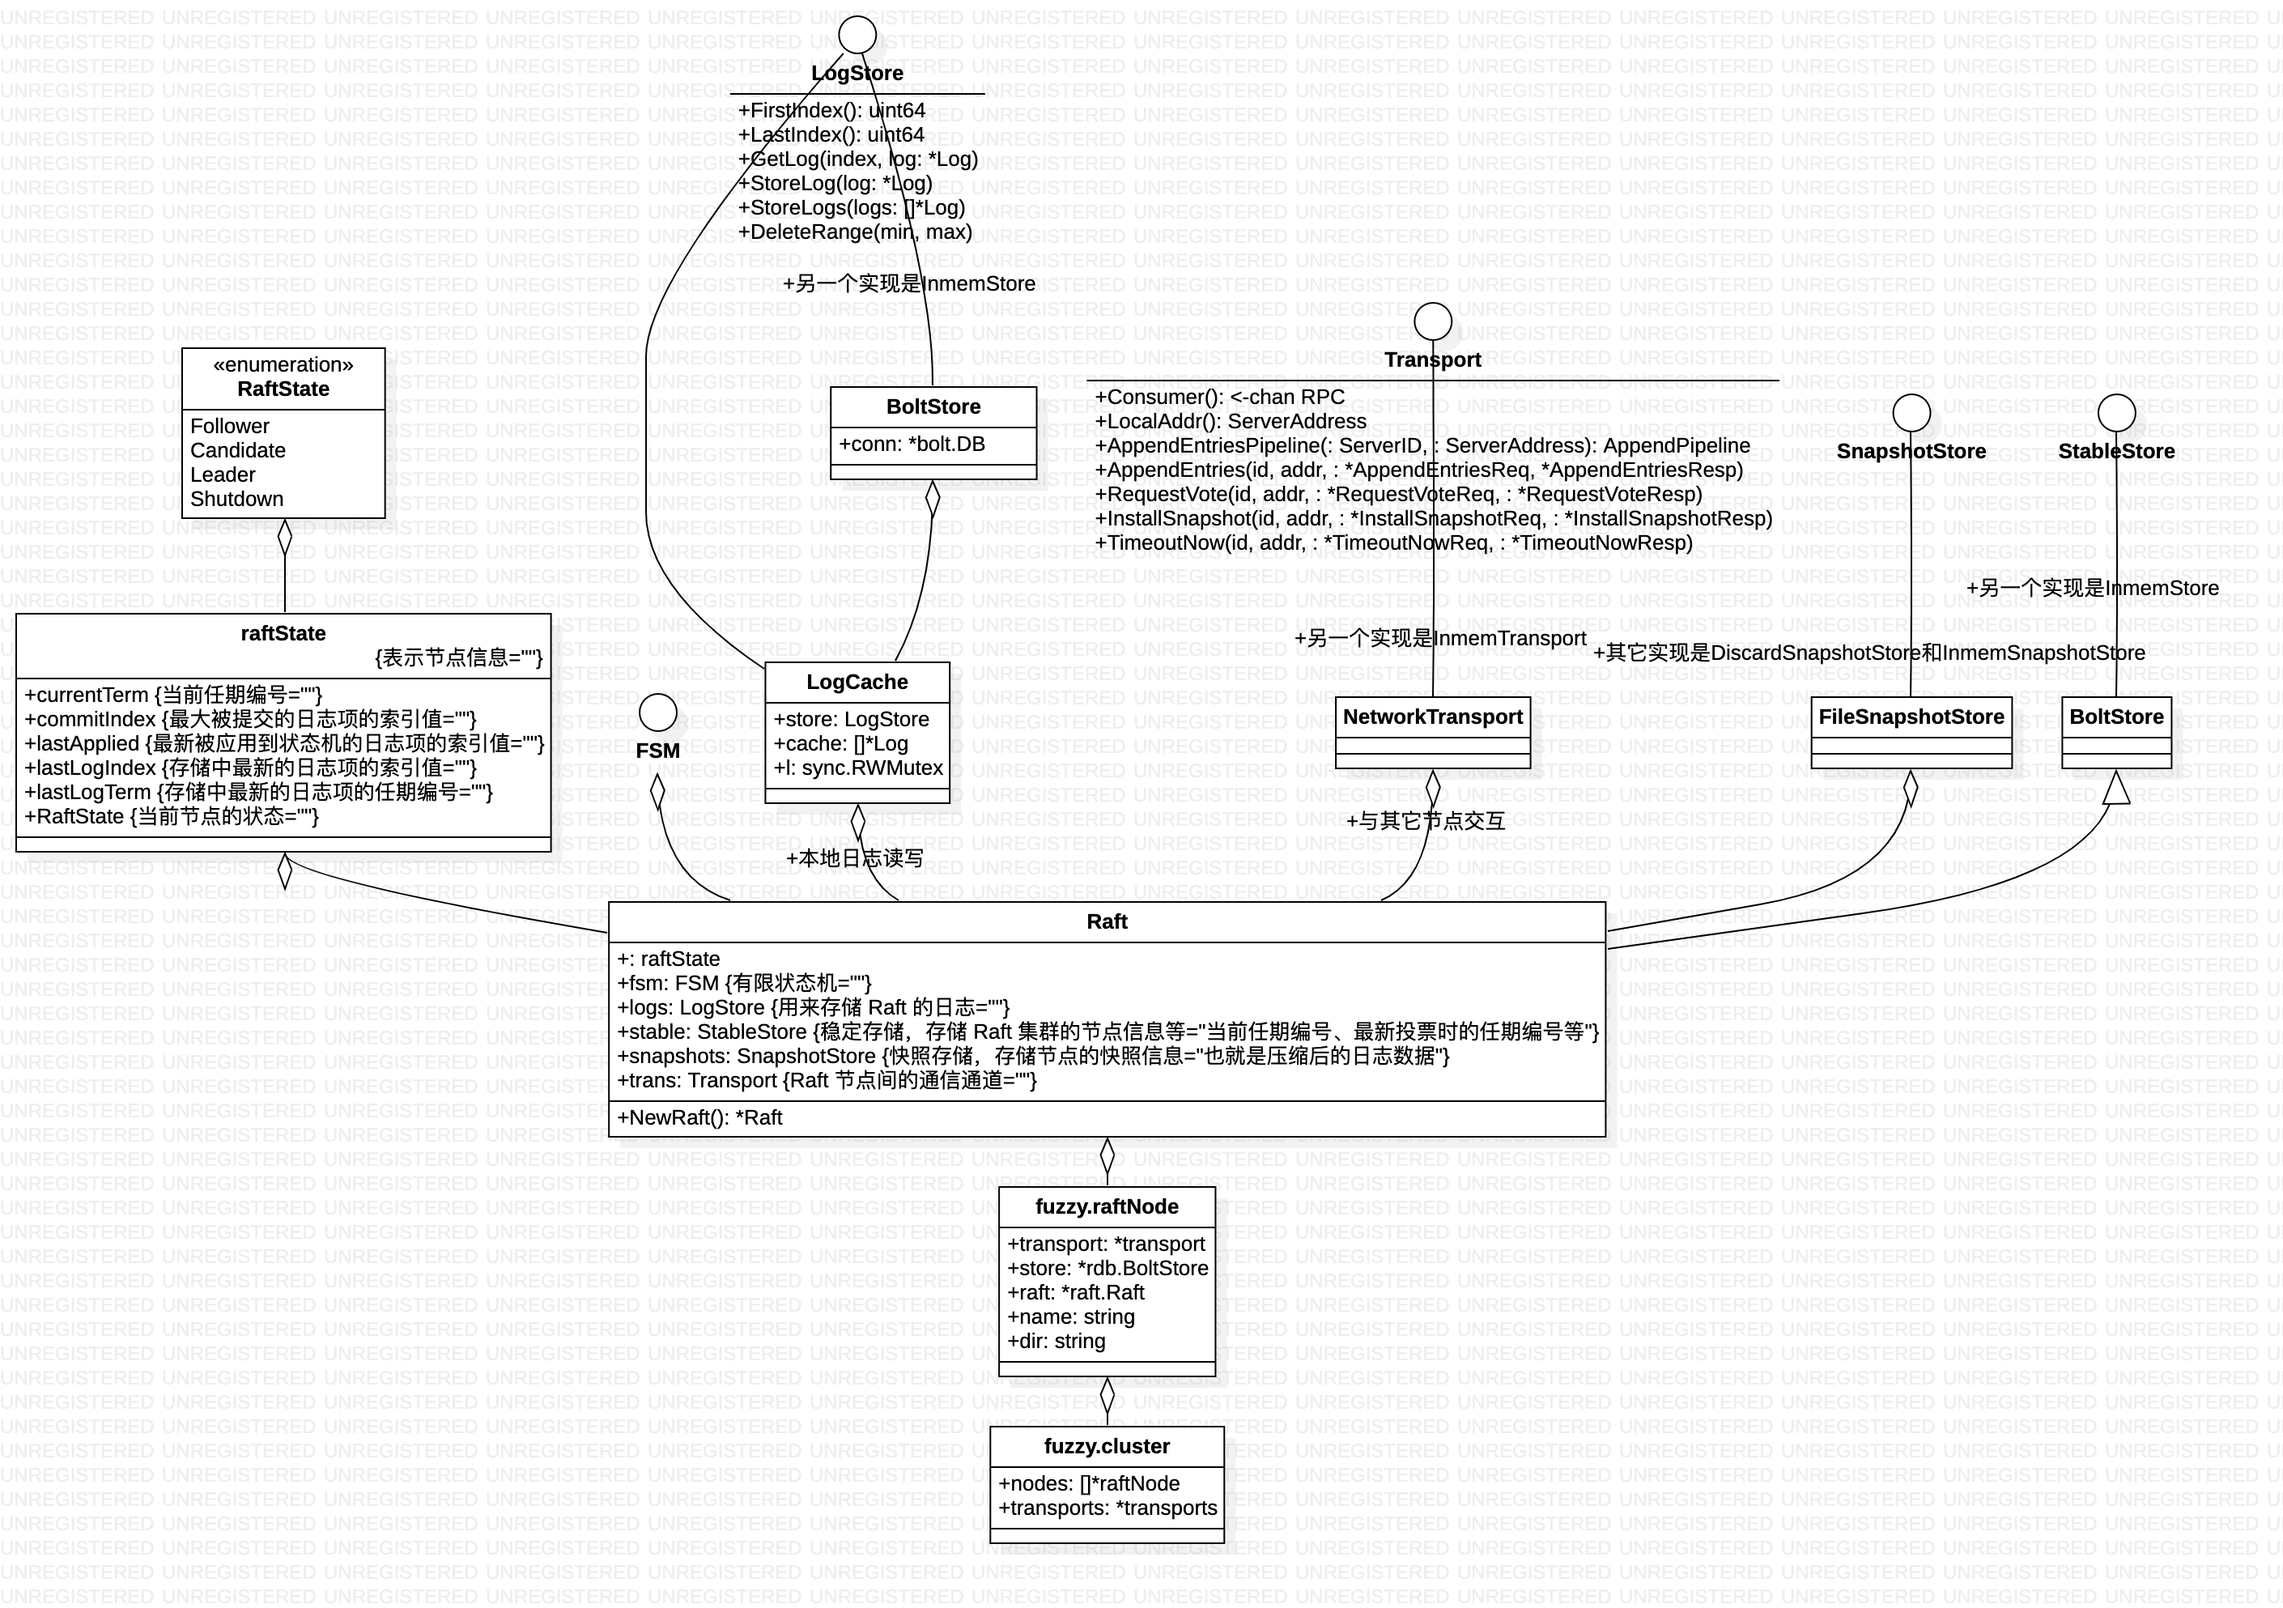
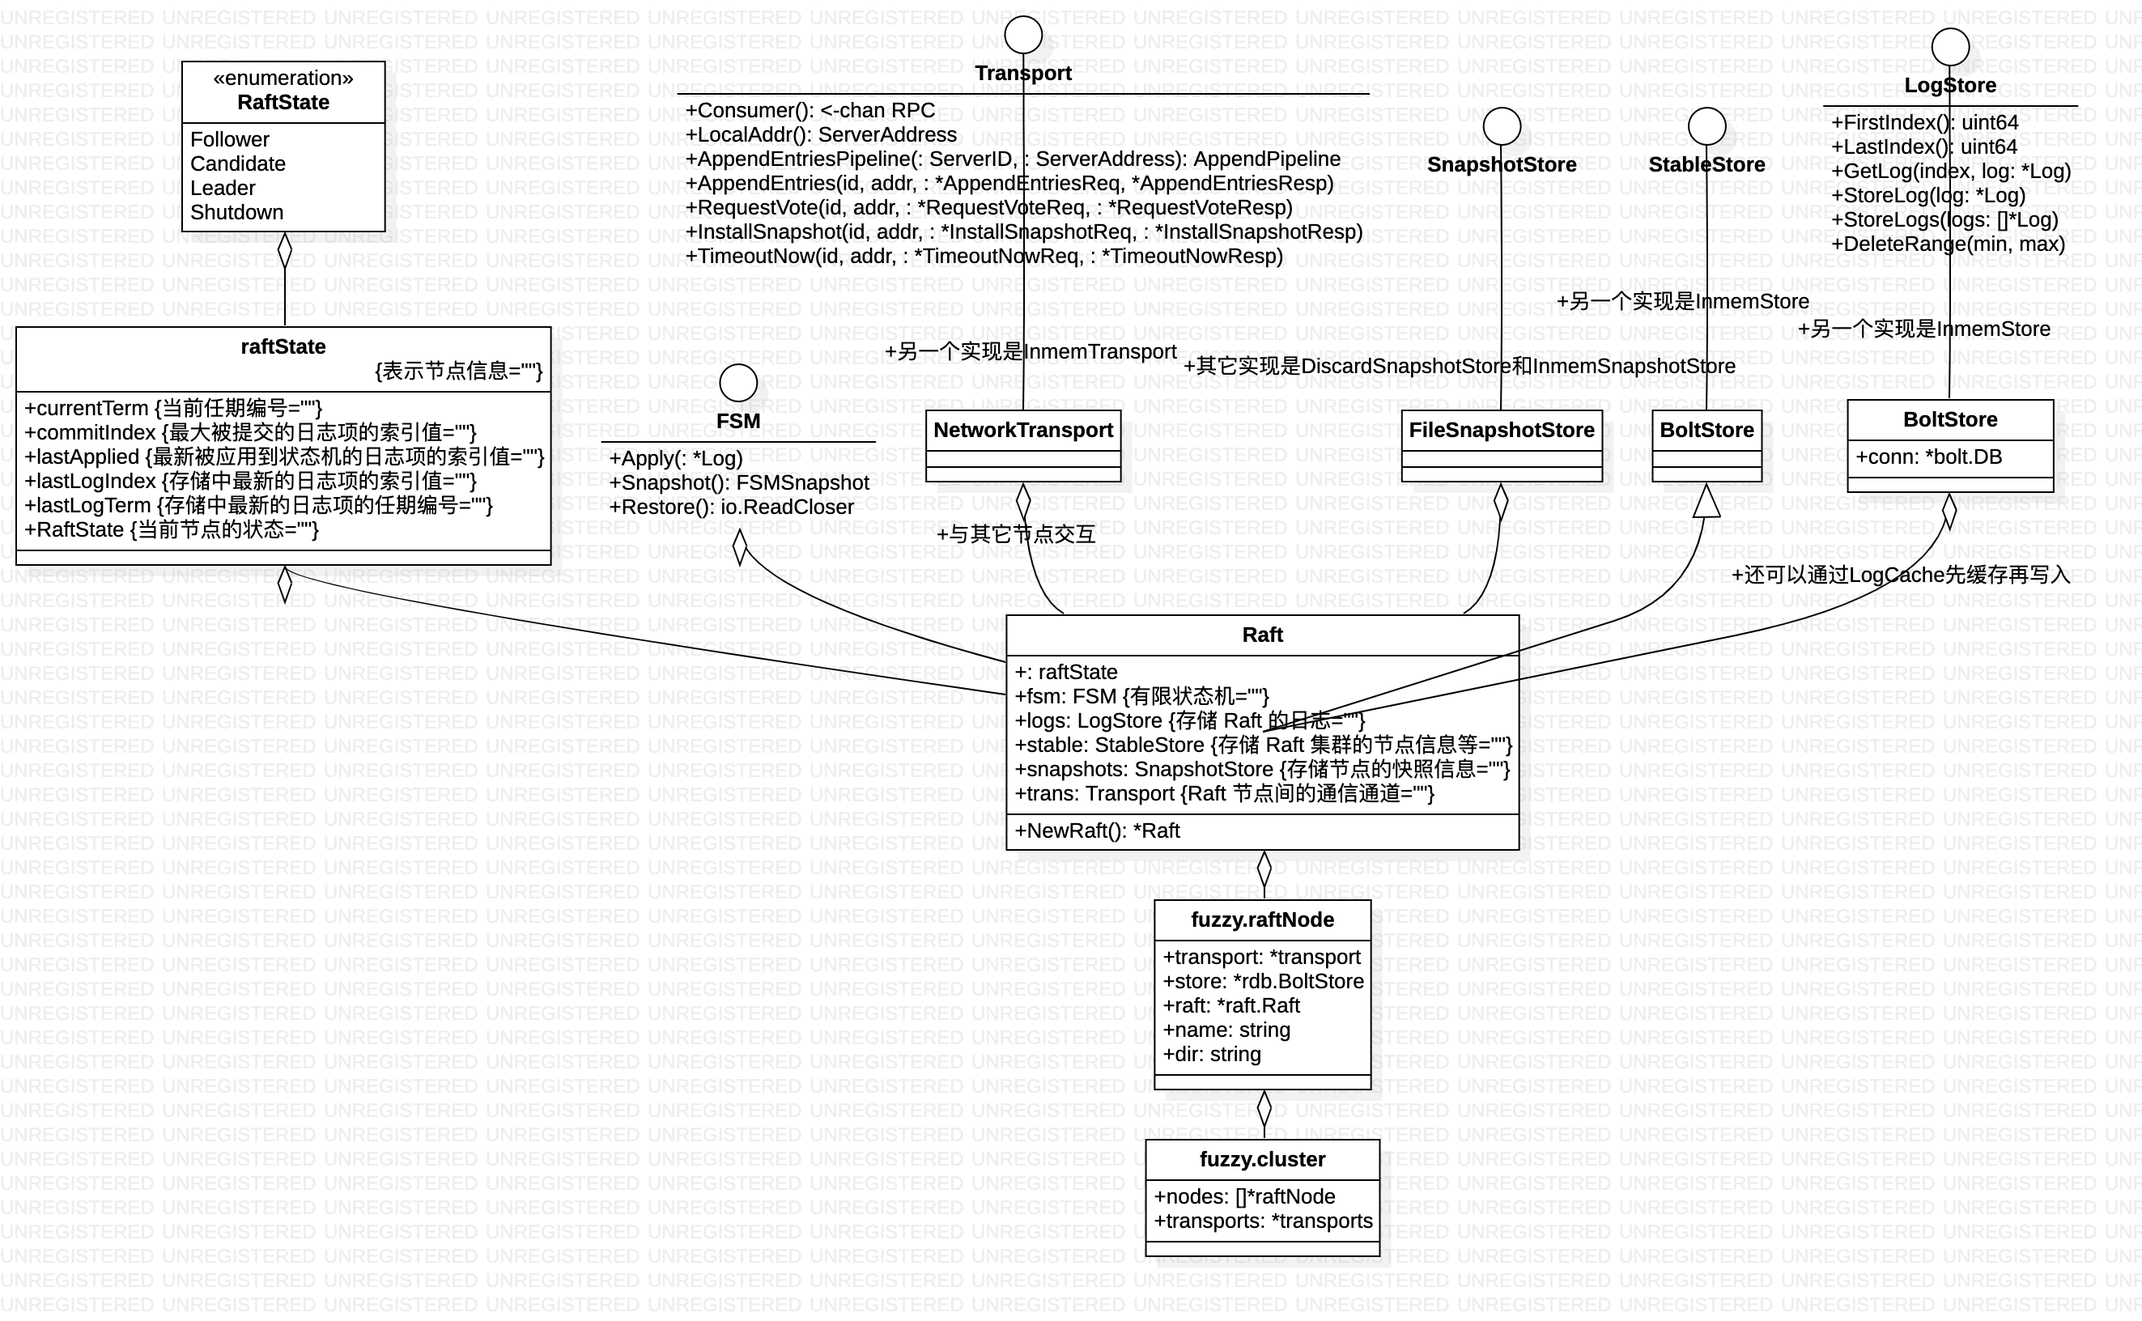
[fix]

diff --git a/_posts/Technology/Distribute/2020-05-17-hashicorp_raft.md b/_posts/Technology/Distribute/2020-05-17-hashicorp_raft.md
@@ -45,7 +45,25 @@ raft
 
 ![](/public/upload/distribute/raft_object.png)
 
-在 Hashicorp Raft 中，可以通过 NewRaft() 函数来创建 Raft 节点。**跟随者、候选人、领导者 3 种节点状态都有分别对应的功能函数**
+在 Hashicorp Raft 中，可以通过 NewRaft() 函数来创建 Raft 节点。
+
+```go
+func NewRaft(
+        conf *Config, 
+        fsm FSM, 
+        logs LogStore, 
+        stable StableStore, 
+        snaps SnapshotStore, 
+        trans Transport) (*Raft, error)
+```
+1. Config（节点的配置信息）
+2. FSM（有限状态机）
+3. LogStore（用来存储 Raft 的日志），可以用raft-boltdb来实现底层存储，raft-boltdb 是 Hashicorp 团队专门为 Hashicorp Raft 持久化存储而开发设计的
+4. StableStore（稳定存储，用来存储 Raft 集群的节点信息等），比如，当前任期编号、最新投票时的任期编号等
+5. SnapshotStore（快照存储，用来存储节点的快照信息），也就是压缩后的日志数据
+6. Transport（Raft 节点间的通信通道），节点之间需要通过这个通道来进行日志同步、领导者选举等等
+
+**跟随者、候选人、领导者 3 种节点状态都有分别对应的功能函数**
 
 ```go
 func (r *Raft) run() {
